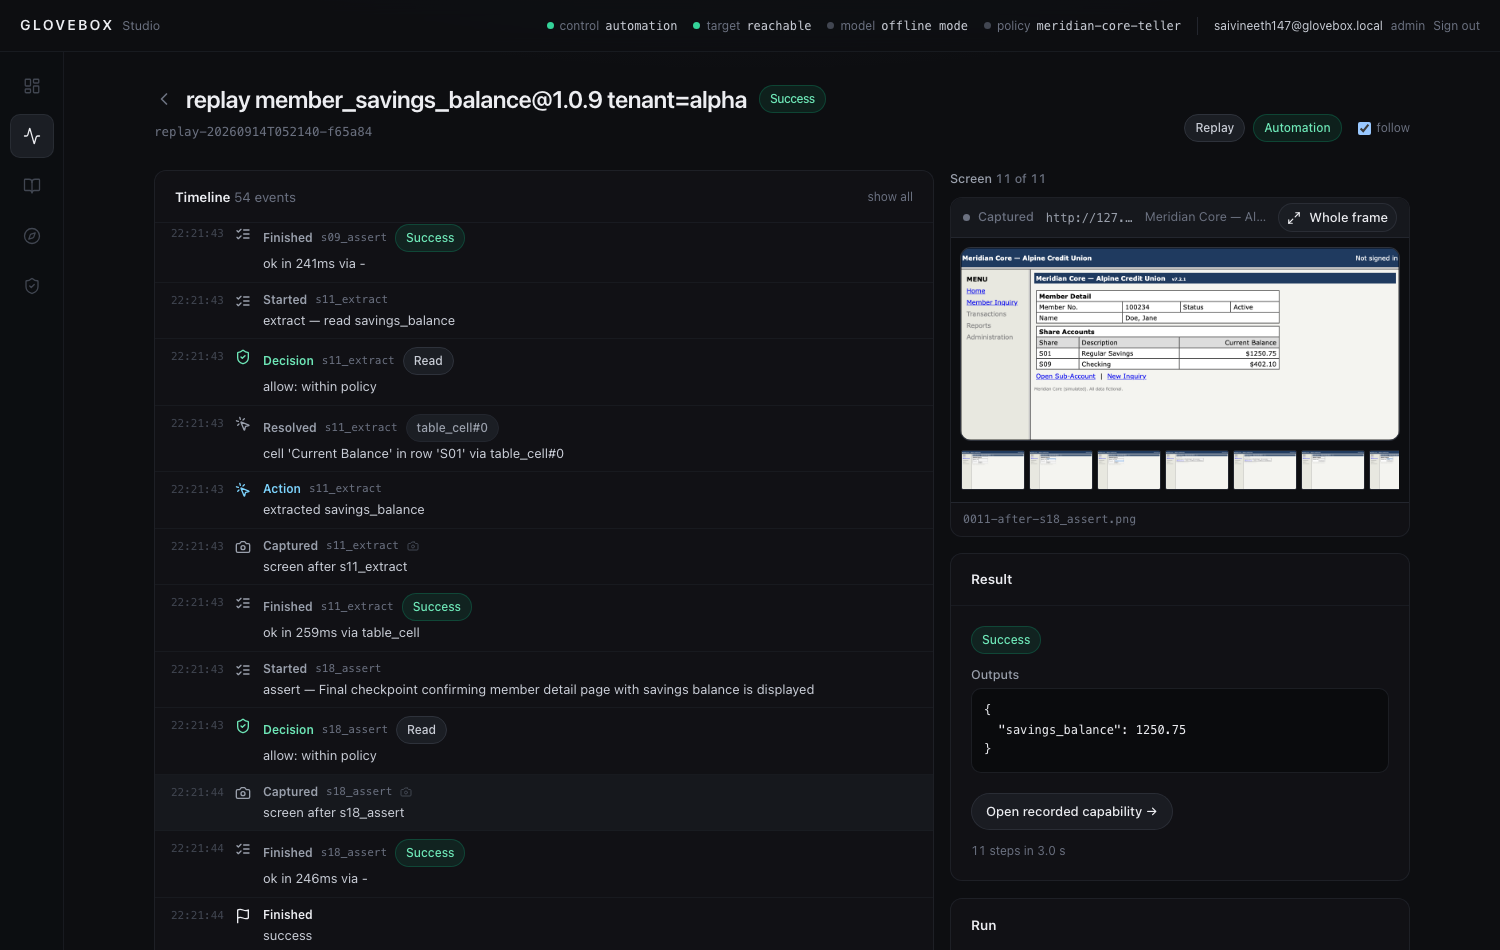
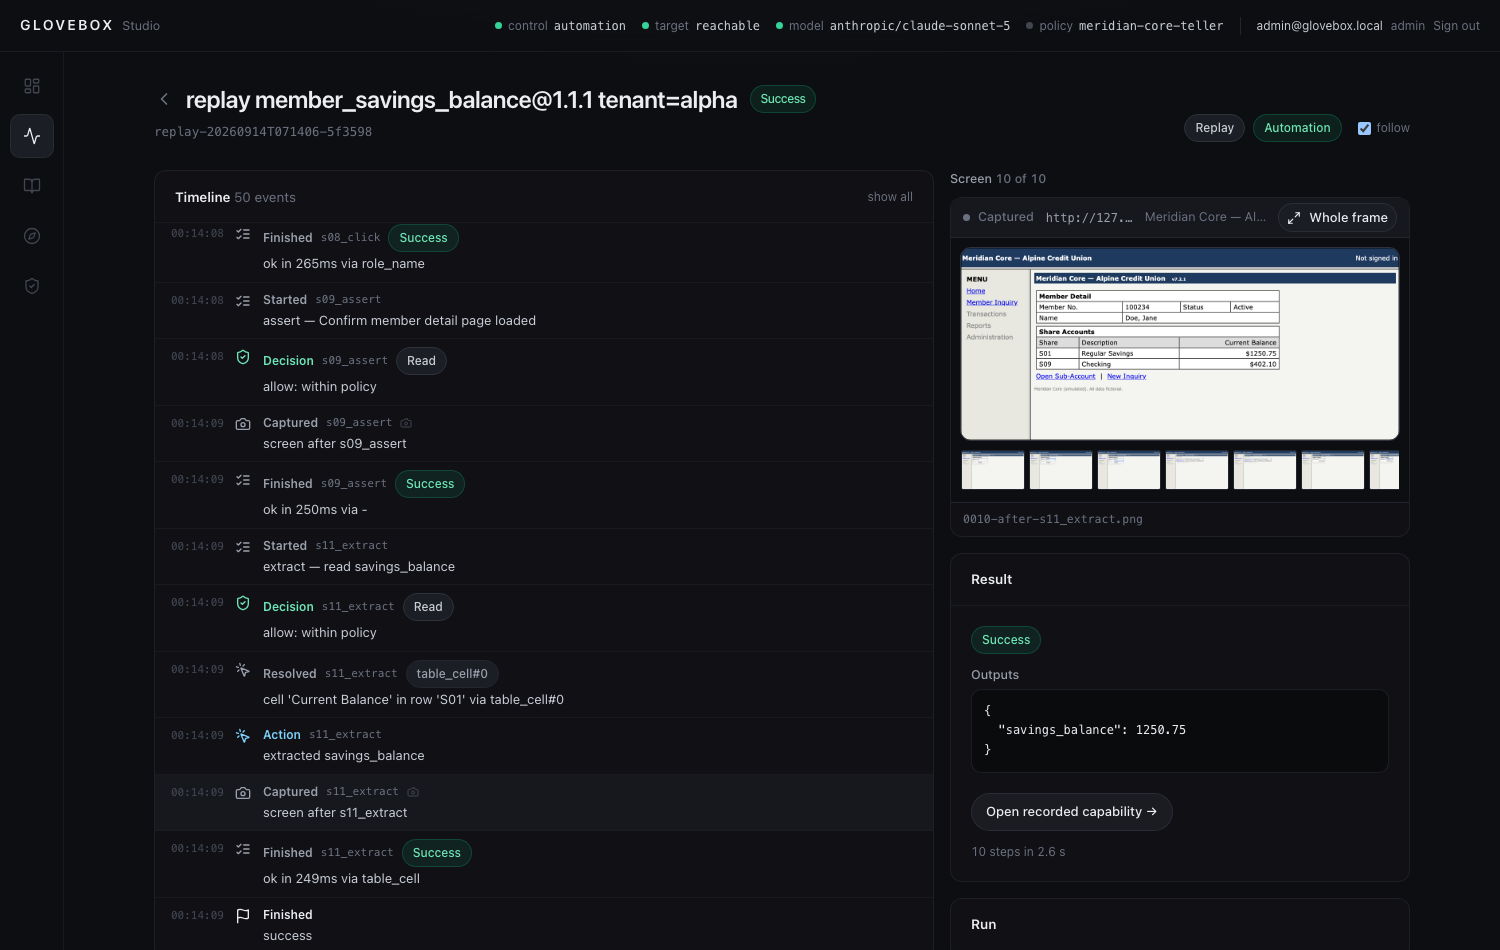
Docs: finish the rename, and correct the claims the code does not support
Six cross-references still read "REPORT §n" after the write-up was renamed: an earlier pass
replaced the literal filename and missed the bare form, so the README, ADR 0004 and three module
docstrings pointed at a file that does not exist.

The claims themselves:

- The README printed the headline typed output as a quoted string, `'1250.75'`, when replay
  returns a number through both surfaces. That is the contract the whole project argues for.
- The project layout omitted the studio package entirely, and several top-level modules.
- `Surface` is fifteen methods, not nine, in a sentence arguing how cheap a second surface is.
- "Waits are condition-based, not sleeps" — there is a fixed 150 ms settle on every step, now
  named as the single timing assumption, with the reason it is there.
- "Refuses a detector the run never saw" — it nudges once and records the outcome unverified,
  because a state can be genuinely unreachable while recording. The flag carries it from there.
- ADR 0003 said five hand-back verbs; there are six.
- Studio's section now says where its credentials come from, and that they are not the target
  application's.

Screenshots recaptured against the shipped artifact. The committed set came from an offline
placeholder showing twelve steps and a member_name output, over a review note reading "offline
placeholder; re-record with `make discover`" — a contract this repository does not ship.

Claude-Session: https://claude.ai/code/session_0116Jc5JquHoRtb8W2rqVzuP

diff --git a/src/glovebox/repair.py b/src/glovebox/repair.py
@@ -1,9 +1,9 @@
 """Propose a replacement locator when a recorded one stops resolving. Never apply one.
 
-REPORT §7 lists assisted repair as the next thing to build, with the condition that matters:
-the model may suggest, and a human disposes. A capability that healed itself at replay time
-would put a model back in the production path and hand a reviewer an artifact nobody approved,
-which is the whole thing this system is arranged to avoid.
+Glovebox-Design-Writeup.md §7 lists assisted repair as the next thing to build, with the
+condition that matters: the model may suggest, and a human disposes. A capability that healed
+itself at replay time would put a model back in the production path and hand a reviewer an
+artifact nobody approved, which is the whole thing this system is arranged to avoid.
 
 So this is deliberately small. One call, no retries, and the suggestion is thrown away unless
 it resolves to exactly one element on the screen that is actually there — the same uniqueness

diff --git a/src/glovebox/drift_eval.py b/src/glovebox/drift_eval.py
@@ -1,9 +1,9 @@
 """Measure a capability's resilience by redesigning the app underneath it.
 
-REPORT §2 argues that several ordered locator strategies per target beat one "best" locator,
-because which locator survives a change is unknowable at record time. That is an argument.
-This turns it into a measurement: mutate the rendered page the way a redesign would, replay
-the same approved capability against each mutation, and report both how many survived and
+Glovebox-Design-Writeup.md §2 argues that several ordered locator strategies per target beat one
+"best" locator, because which locator survives a change is unknowable at record time. That is an
+argument. This turns it into a measurement: mutate the rendered page the way a redesign would,
+replay the same approved capability against each mutation, and report both how many survived and
 *which rung of the ladder caught the fall*.
 """
 

diff --git a/src/glovebox/replay/engine.py b/src/glovebox/replay/engine.py
@@ -98,7 +98,7 @@ def session_prefix(capability: Capability) -> list[Step]:
 
     Found by following the credentials: the last step that substitutes a sensitive parameter,
     plus the click that submits it. This is what a session-bootstrap capability would own
-    instead, and what a caller holding a warm session can skip — REPORT §7's first cut.
+    instead, and what a caller holding a warm session can skip — the write-up's §7 first cut.
     """
     sensitive = {p.name for p in capability.inputs if p.sensitive}
     if not sensitive:

diff --git a/README.md b/README.md
@@ -46,10 +46,20 @@ described. All data is fictional; credentials are fake.
 
 The workspace for engineers and operators: `make studio` → http://127.0.0.1:8800/.
 
-**Signing in.** Studio has its own accounts, separate from the application it drives. Register
-any email and password on first run — **the first account created becomes the administrator**;
-later accounts can read runs and capabilities until an administrator raises them. Accounts live
-in `runs/studio.db` (gitignored) — delete that file to start over.
+**Signing in.** Studio has its own accounts, separate from the application it drives. `.env`
+carries an administrator, so a fresh clone can sign straight in:
+
+| | |
+|---|---|
+| Email | `admin@glovebox.local` |
+| Password | `glovebox-admin-2026` |
+
+`GLOVEBOX_STUDIO_EMAIL` / `GLOVEBOX_STUDIO_PASSWORD` seed that account the first time Studio
+starts against an empty database, and seeding is refused once any account exists — so it is a way
+in on a clean checkout, never a way back to admin on a live one. Comment the two variables out and
+the sign-up form takes over, where **the first account created becomes the administrator** and
+later ones are viewers until an administrator raises them. Passwords are at least 12 characters.
+Accounts live in `runs/studio.db` (gitignored) — delete that file to start over.
 
 `GLOVEBOX_APP_USERNAME` / `GLOVEBOX_APP_PASSWORD` (`teller1` / `teller1-pass`) are **not** Studio
 credentials: they are the fake bank's operator login, which replay uses to sign into Meridian
@@ -64,7 +74,7 @@ Core. The Studio email field expects an email address, so `teller1` is rejected 
 > of a real takeover argue that better than prose. Nothing in the UI can do what the CLI
 > cannot — both drive the same `OperatorBridge` verbs — so it is a window onto the mechanism,
 > not a second implementation of it. Sign-in and roles came with it for a narrower reason
-> given in REPORT §5: an operator name the browser types is not an audit trail. If you are
+> given in Glovebox-Design-Writeup.md §5: an operator name the browser types is not an audit trail. If you are
 > weighing effort, the load-bearing work is in `agent/`, `replay/`, `schema/` and `surface/`.
 
 <p align="center"><img src="docs/studio/run-live.png" alt="Glovebox Studio: a live run with the agent's decisions streaming beside the screen" width="920"></p>
@@ -169,8 +179,8 @@ terminal-era client would, and resolves recorded targets through the same `locat
 The **same reviewed capability**, recorded through a browser, replays through it:
 
 ```
-playwright (browser)    2.80s  success  {'savings_balance': '1250.75'}
-http (no browser)       0.03s  success  {'savings_balance': '1250.75'}
+playwright (browser)    2.80s  success  {'savings_balance': 1250.75}
+http (no browser)       0.03s  success  {'savings_balance': 1250.75}
 ```
 
 What it cannot do is as useful as what it can. There is no geometry, so a `bbox` strategy
@@ -279,7 +289,10 @@ src/glovebox/
   control/     control lease, operator bridge, scripted operator, minimal console
   evidence/    run directory, redacted JSONL logger
   catalog/     capability registry → agent tool definitions
-  cli.py       typer CLI · runner.py wiring
+  studio/      the workspace UI's API: accounts, roles, jobs, live run stream, takeover
+  cli.py       typer CLI · runner.py wiring · drift_eval.py the redesign sweep
+               repair.py the bounded repair proposal · textmatch.py one definition of
+               "that text is on screen", shared by the recorder and every surface
 apps/legacy_bank/   Meridian Core: the hostile simulated target with fault injection
 capabilities/       committed artifacts (reviewable JSON)
 evidence/           discovery + replay evidence bundles (see evidence/README.md)

diff --git a/Glovebox-Design-Writeup.md b/Glovebox-Design-Writeup.md
@@ -86,14 +86,18 @@ Capability
 - **`verified` on an outcome** records whether its detector text was actually observed during the
   run. The model will otherwise guess wording it never saw, and a guessed detector never fires.
 
-What I kept out: model messages, raw HTML, coordinates as a primary locator, timing assumptions.
+What I kept out: model messages, raw HTML, coordinates as a primary locator, and any wait longer
+than the settle below.
 
 ## 3. Determinism & error handling
 
 **Determinism.** Replay never consults a model. For each step: policy check → resolve the first
 strategy that matches *exactly one* visible element (two matches is an error, not a guess) → act →
-wait for load state and settle → classify. Waits are condition-based, not sleeps; dialogs are armed
-before the click that raises them; frames are addressed by name path.
+wait for load state and settle → classify. The wait is a condition — load state on the page and on
+every frame — followed by one fixed settle the artifact records per step (150 ms), which is the
+single timing assumption here: a frameset mutates its DOM a tick after load fires, and polling for
+the absence of a change costs more than it buys. Dialogs are armed before the click that raises
+them; frames are addressed by name path.
 
 **Runtime errors and exceptional states** are classified in a fixed order after every step:
 
@@ -114,9 +118,14 @@ test and an evidence bundle.
 **What the discovery run must not record.** The first live run produced an artifact that
 validated and did not work: it had baked the recorded member's balance into `success` and declared
 the happy path as a terminal outcome, so replay ended before extraction. The recorder now refuses,
-as a *retryable tool error* the model can act on, any condition built from run data, an outcome
-that fires on the success screen, an extraction whose regex misses its element, and a detector the
-run never saw — the same mechanism an expired element ref uses. Six live runs converged from a
+as a *retryable tool error* the model can act on, any condition built from run data — a checkpoint
+as much as an outcome detector — an outcome that fires on the success screen, and an extraction
+whose regex misses its element; the same mechanism an expired element ref uses. A detector the run
+never saw is the one case it does not refuse outright: it nudges once and then records the outcome
+with `verified: false`, because a state can be genuinely unreachable while recording — an
+access-denied screen needs a permission the operator does not hold — and insisting would forbid
+declaring real outcomes. The flag is what carries it from there, and approval is where a human
+decides whether to accept it. Six live runs converged from a
 capability that worked for one member to one that replays for every member and returns
 `MEMBER_NOT_FOUND` for a missing one.
 
@@ -128,7 +137,7 @@ fails if that changes. Replay costs 2.8 s and no tokens against 86 s and ~$0.20 
 
 ## 4. Heterogeneity & multi-tenant
 
-**Surface abstraction, tested rather than argued.** `Surface` has nine verbs and `Element` uses
+**Surface abstraction, tested rather than argued.** `Surface` is fifteen methods and `Element` uses
 accessibility vocabulary, so a Windows UIA or macOS AX surface maps `role_name`/`label`/`near_text`
 onto its tree and a screenshot surface implements `bbox` and OCR `text`. To prove the seam I built
 `surface/http/`: no DOM, no JavaScript, no layout engine, driving the app the way a terminal-era

diff --git a/docs/adr/0003-control-lease-handoff.md b/docs/adr/0003-control-lease-handoff.md
@@ -17,7 +17,7 @@ target description the recorder uses. The console is a thin HTTP/HTML client of 
 ## Consequences
 - One session, one thread, no re-login, cookies/state preserved across the handoff.
 - The bridge is the seam: the mock console, the scripted operator used in tests, and a
-  future real operator console (WebRTC/VNC/CDP screencast) all speak the same five verbs.
+  future real operator console (WebRTC/VNC/CDP screencast) all speak the same six verbs.
 - A handoff times out into an `escalated` result rather than hanging a worker forever.
 - The human's recorded actions can later be folded into the artifact (the discovery loop
   already does this) — the first step toward "human-assisted repair" of drifted capabilities.

diff --git a/docs/adr/0004-policy-in-front-of-every-action.md b/docs/adr/0004-policy-in-front-of-every-action.md
@@ -20,4 +20,4 @@ parameters, sensitive outputs) plus pattern rules, before anything is written.
 - Sensitive parameters never reach the model: it references them by name; the loop
   substitutes the value.
 - Screenshots may still show what the *screen* shows; the surface masks password fields,
-  and PII on screen is the remaining exposure (documented limit, see REPORT §6).
+  and PII on screen is the remaining exposure (documented limit, see Glovebox-Design-Writeup.md §6).
